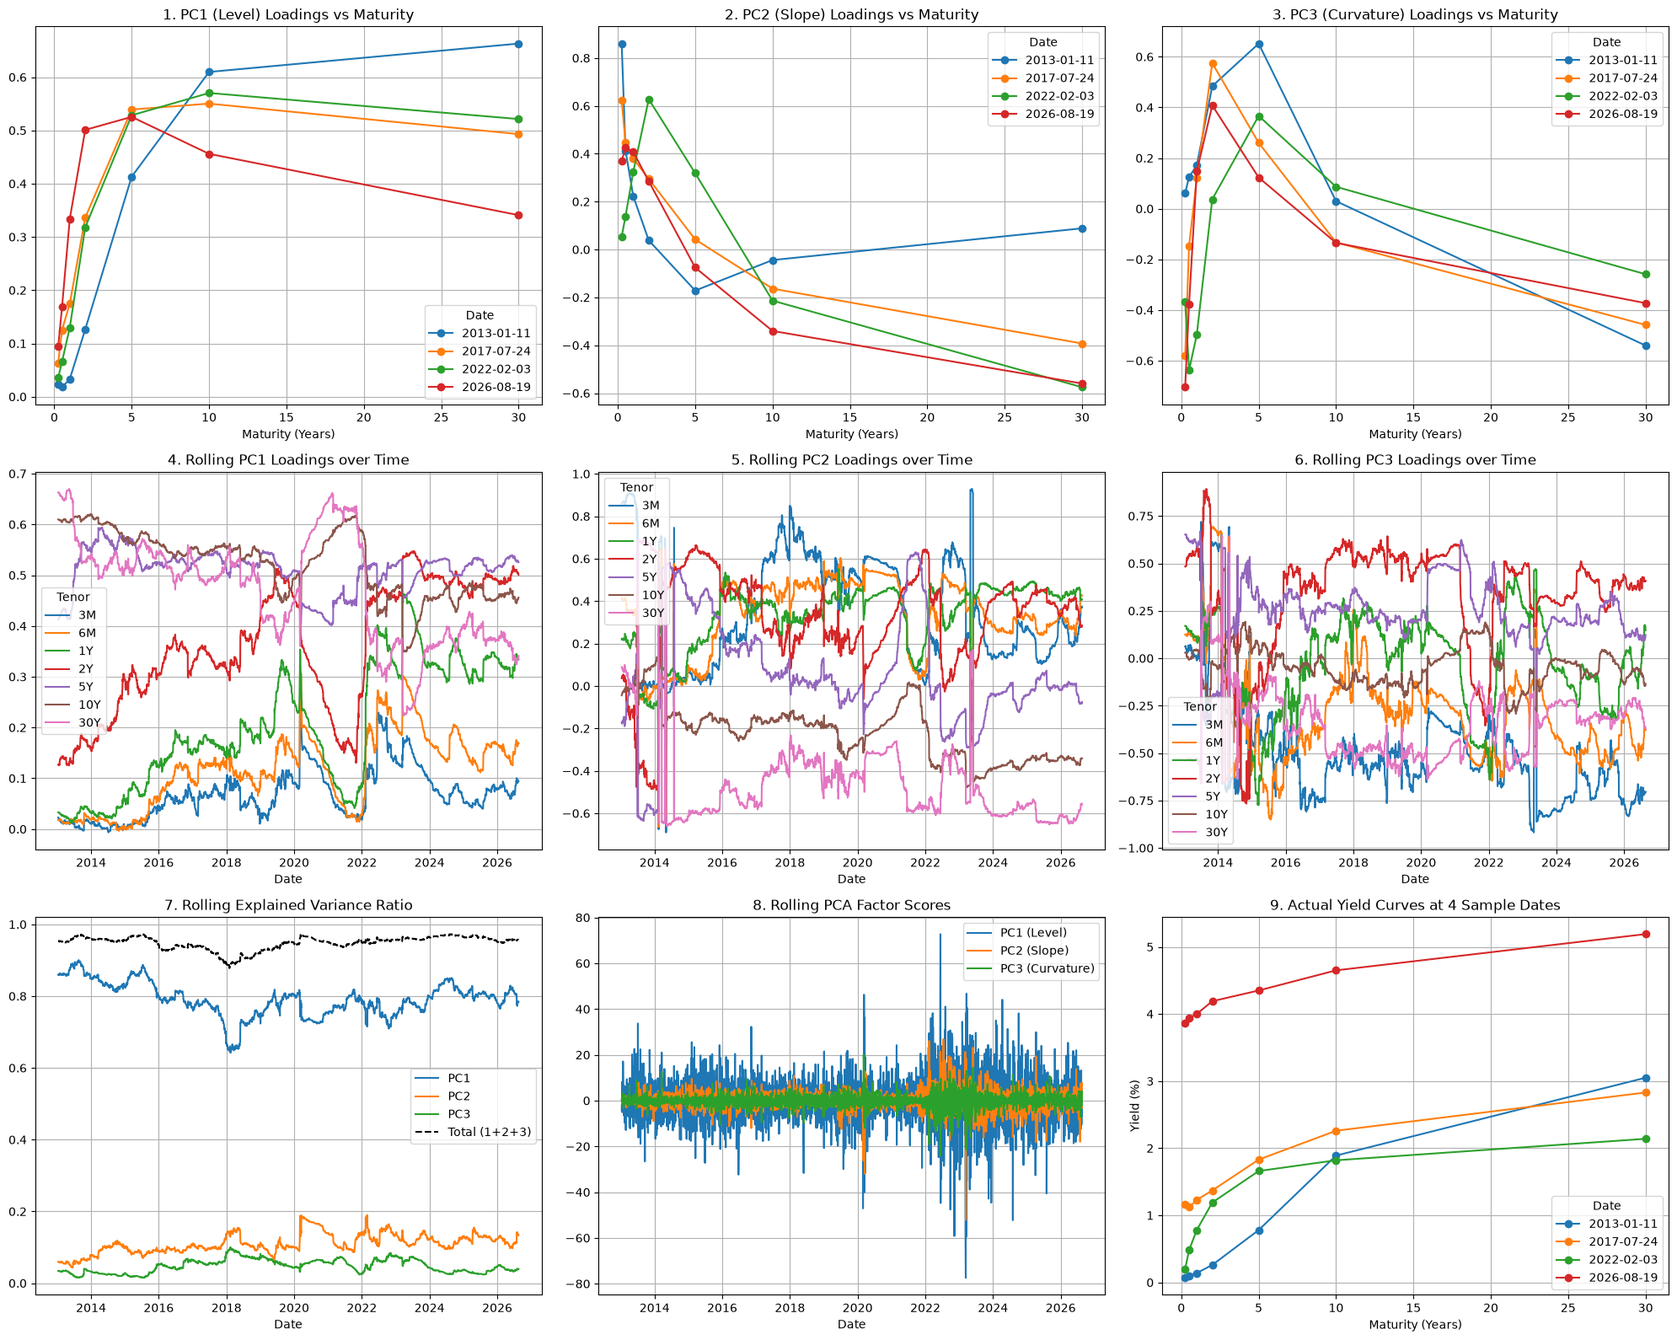
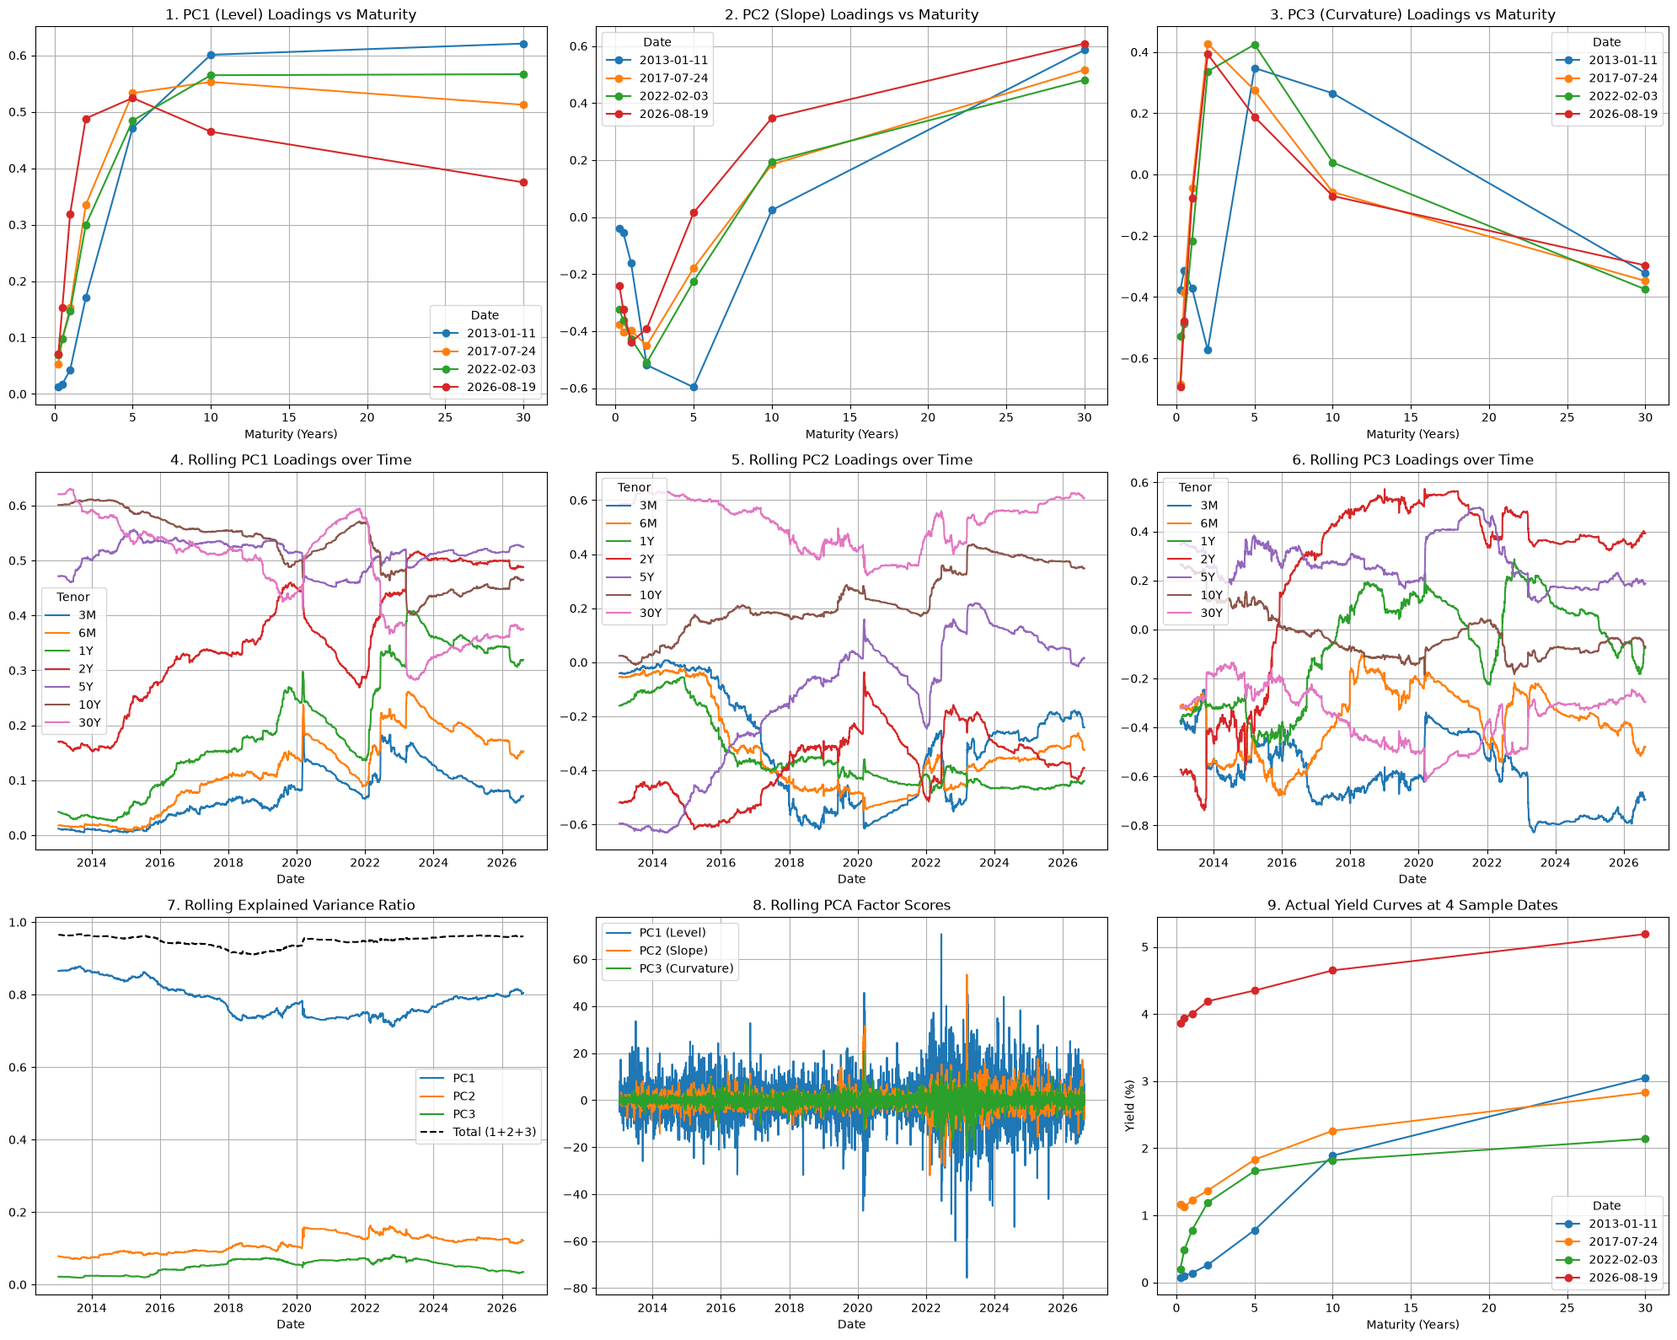
update

diff --git a/_posts/2026-08-26-Principal Component Analysis of the Treasury Yield Curve.md b/_posts/2026-08-26-Principal Component Analysis of the Treasury Yield Curve.md
@@ -15,10 +15,19 @@ The US Treasury curve is the benchmark of global interest rates. It serves as th
 
 Principal Component Analysis (PCA) is a dimensionality reduction technique that simplifies complex, multi-dimensional data into a few key independent drivers (level, slope, curvature, etc.).
 
+This article is organized into the following sections:
+
+* [**Examples of PCA Applications in Fixed Income**](#examples-of-pca-applications-in-fixed-income): Practical use cases in PnL attribution, multi-tenor hedging with liquid futures, and scenario stress testing.
+* [**Part 1: The Economic Meaning of PCA**](#1-the-economic-meaning-of-pca-litterman--scheinkman): Empirical interpretation of Level, Slope, and Curvature across macro regimes, rolling eigensolvers with the Hungarian algorithm, and hyperparameter tuning.
+* [**Part 2: CCAR and Regulatory Stress Testing**](#2-ccar-and-regulatory-stress-testing): Macroeconomic scenario design, Historical Simulation Value-at-Risk (VaR), Component VaR decomposition, and matrix algebra formulation.
+* [**Part 3: Independent Risk Factors**](#3-independent-risk-factors): Orthogonal risk isolation, directional vs. curve spread PnL dynamics, and residual monitoring for risk governance.
+
 **Refer to Interest Rate Modeling Notebooks and PCA Fundamentals:**
 * [Analysis on Treasury Yield Curve (PCA, VaR, PnL Attribution)](https://github.com/jhqntdv/Interest-Rate-Modeling/blob/main/pca-main.ipynb)
 * [The impact of Fed Funds Rate on the curve (Linear Regression and ECM)](https://github.com/jhqntdv/Interest-Rate-Modeling/blob/main/fed-main.ipynb)
 * [Statistics Cheat Sheet](/posts/Statistics-Cheat-Sheet/)
+
+---
 
 ## Examples of PCA applications in Fixed Income
 
@@ -36,63 +45,145 @@ PCA is a mathematical dimension-reduction technique with no inherent economic me
 
 ![PCA Components](/assets/img/posts/pca/ch2.png){: style="display: block; margin: 0 auto;" }
 
+**Baseline Model Setup (3Y Window / 3Y ESS):**  
+The empirical results presented below (Charts 1–9) are estimated using a **rolling lookback window of 756 trading days** ($252 \times 3 \approx 3\text{ years}$) paired with an **Effective Sample Size (ESS) of 756 days** ($252 \times 3 \approx 3\text{ years}$). Under exponential weighting ($\lambda = \frac{\text{ESS} - 1}{\text{ESS} + 1}$), this translates to an effective decay factor of **$\lambda \approx 0.99736$** (implying a half-life of $\approx 262$ trading days / $\approx 1$ year). The following results are presented based on this **3-year / 3-year** baseline configuration.
+
 #### 1.1 Factor Loadings vs. Maturity (Charts 1–3)
 
 * **Chart 1 — PC1 (Level) Loadings vs. Maturity:**
-  * 
+  * Cross-sectional snapshots across four macro regimes (2013 Taper Tantrum, 2017 mid-hiking cycle, 2022 hiking shock, and 2026 current).
+  * Loadings are strictly positive and monotonically upward-sloping from short to long tenors (~0.01–0.15 at 3M up to ~0.40–0.62 at 10Y–30Y), proving that level shocks structurally shift the entire curve in the same direction across varying regimes.
 
 * **Chart 2 — PC2 (Slope) Loadings vs. Maturity:**
-  * 
+  * Exhibits a consistent downward-to-upward steepener tilt: negative weights on short tenors (~-0.40 to -0.60 at 2Y–5Y) and positive weights on the long end (~+0.50 to +0.60 at 30Y).
+  * Consistently pivots through zero between intermediate maturities (~3Y–6Y), confirming that a 1-unit slope shift twists short and long rates in opposite directions.
 
 * **Chart 3 — PC3 (Curvature) Loadings vs. Maturity:**
-  * 
+  * Demonstrates the classic butterfly hump: positive loadings on the belly (~+0.35 to +0.42 at 2Y–5Y) flanked by negative loadings on both the short and long wings (~-0.30 to -0.70 at 3M; ~-0.30 to -0.38 at 30Y).
+  * Structural stability across all four regimes verifies that the model is well-specified and regime-independent.
 
 #### 1.2 Rolling Factor Loadings over Time (Charts 4–6)
 
-> **Methodology Note — Factor Tracking & the Hungarian Algorithm:**  
-> When computing PCA across rolling time windows, numerical eigensolvers suffer from two mathematical ambiguities:
-> 1. **Sign Flipping:** Eigenvectors are unique only up to a sign flip ($v$ and $-v$ satisfy the same eigensystem).
-> 2. **Factor Swapping (Eigenvalue Crossing):** During market regime shifts or when eigenvalues are close, the ranking of principal components can abruptly swap (e.g., PC2 and PC3 switching positions).
-> 
-> The **Hungarian Algorithm** (Kuhn-Munkres) solves this by treating factor tracking as a bipartite matching problem: it finds the optimal 1-to-1 assignment that maximizes the absolute inner product matrix between current eigenvectors ($t$) and reference eigenvectors ($t-1$). Combined with sign alignment ($\text{sgn}(v_t \cdot v_{t-1})$), it preserves smooth, continuous factor identities (Level, Slope, Curvature) across the entire rolling history without artificial jumps.
+**Methodology Note — Factor Tracking & the Hungarian Algorithm:**  
+When computing PCA across rolling time windows, numerical eigensolvers suffer from two mathematical ambiguities:
+1. **Sign Flipping:** Eigenvectors are unique only up to a sign flip ($v$ and $-v$ satisfy the same eigensystem).
+2. **Factor Swapping (Eigenvalue Crossing):** During market regime shifts or when eigenvalues are close, the ranking of principal components can abruptly swap (e.g., PC2 and PC3 switching positions).
+
+The **Hungarian Algorithm** (Kuhn-Munkres) solves this by treating factor tracking as a bipartite matching problem: it finds the optimal 1-to-1 assignment that maximizes the absolute inner product matrix between current eigenvectors (at time $t$) and reference eigenvectors (at time $t-1$). Combined with sign alignment ($\text{sgn}(v_t \cdot v_{t-1})$), it preserves smooth, continuous factor identities (Level, Slope, Curvature) across the entire rolling history without artificial jumps.
 
 * **Chart 4 — Rolling PC1 Loadings over Time:**
-  * 
+  * Tracks each tenor's sensitivity to Level over 2013–2026: long tenors (5Y–30Y) maintain high, stable exposures (~0.45–0.62), while front-end tenors (3M–1Y) remain low (<0.15 pre-2020) before rising to 0.30–0.45 during the 2022–2024 Fed tightening cycle.
+  * Time series are materially smooth with zero vertical discontinuities or line-crossing artifacts.
 
 * **Chart 5 — Rolling PC2 Loadings over Time:**
-  * 
+  * Persistently separates long-end steepeners (30Y at +0.35 to +0.65) from short-end anchors (3M–2Y at -0.20 to -0.60), with the 5Y–10Y sector acting as the stable transition zone.
+  * Shows robust factor identity preservation through the 2015–2018 hiking cycle, 2020 COVID shock, and 2022–2023 yield curve inversion.
 
 * **Chart 6 — Rolling PC3 Loadings over Time:**
-  * 
+  * Belly tenors (2Y, 5Y) consistently maintain positive loadings (+0.10 to +0.55), while short and long wings (3M, 30Y) remain negative (-0.10 to -0.80).
+  * Confirms that identity swaps and eigenvalue crossings are fully eliminated across the 13-year rolling sample.
 
 #### 1.3 Variance Explained, Factor Scores & Curve Shapes (Charts 7–9)
 
 * **Chart 7 — Rolling Explained Variance Ratio:**
-  * 
+  * Total explanatory power (PC1+PC2+PC3) stays consistently high at ~92%–97% (PC1: ~75%–85%, PC2: ~10%–15%, PC3: ~3%–6%).
+  * The transient dip in total variance to ~90% (with PC1 dropping to ~72%–75%) during 2020–2022 is an expected economic phenomenon: front-end rates were pinned near the zero lower bound (ZLB) while long-end yields moved independently, causing a decoupling that a linear 3-factor model cannot fully span.
 
 * **Chart 8 — Rolling PCA Factor Scores:**
-  * 
+  * Represents daily standardized factor realizations (typically fluctuating within $[-20, +20]$).
+  * Sharp spikes in March 2020 (emergency liquidity dislocation and rate cuts) and 2022–2023 (rapid 75 bps Fed rate hike cycle, with scores reaching $\pm 60$ to $-75$) are intentionally retained rather than smoothed away, preserving authentic market shocks critical for risk management and PnL attribution.
 
 * **Chart 9 — Actual Yield Curves at 4 Sample Dates:**
-  * 
+  * Provides the raw curve context underlying Charts 1–3: 2013 (steep curve; 3M at 0.06%, 30Y at 3.06%, spread $\approx 300$ bps), 2017 (moderately steep mid-cycle), 2022 (pre-hiking flat baseline), and 2026 (elevated, inverted curve with 3M at 3.86% and 10Y at 4.65%).
+  * Confirms factor shapes align directly with observed yield curve geometries across varying monetary regimes.
 
 #### 1.4 Hyperparameter Tuning: Rolling Windows & Decay Parameters (24 Scenarios)
 
 * **Scenario Framework & Parameter Grid:**
-  * Evaluating combinations of rolling lookback windows and exponential decay parameters ($\lambda$) across 24 test scenarios.
+  * Rolling PCA has two free hyperparameters: lookback window length ($W \in [252, 1260]$ days) and Effective Sample Size ($\text{ESS} \in [252, 756]$ days, or decay $\lambda \in [0.99209, 0.99736]$).
+  * Optimizing purely on in-sample explained variance is fundamentally biased: shorter windows mechanically inflate in-sample fit (from 94.59% at $W=1260$ to 95.15% at $W=252$) by memorizing sample-specific noise without improving true explanatory power.
+  * The 24 scenarios were evaluated along three distinct quantitative dimensions:
+    1. **Out-of-Sample (OOS) Explained Variance:** Measures how effectively yesterday's estimated loadings explain today's realized curve moves, testing whether shorter windows capture genuine predictive signal.
+    2. **Loading Instability (Turnover):** Quantifies day-to-day volatility in factor weights. Because loadings determine hedge ratios and risk attribution, unstable loadings generate false rebalancing signals and excessive transaction costs.
+    3. **Overfit Gap ($R^2_{\text{IS}} - R^2_{\text{OOS}}$):** Monitored as a diagnostic for structural overfitting rather than a direct objective.
+
+![Stability vs. OOS Explanatory Power (Pareto Frontier)](/assets/img/posts/pca/ch4.png){: style="display: block; margin: 0 auto;" }
+
+* **Stability vs. Out-of-Sample Explanatory Power (Pareto Frontier):**
+  * **Axes & Coordinates:** Each point represents one Window/ESS combination, plotting Instability Penalty ($x$-axis, lower is better) against OOS Explained Variance ($y$-axis, higher is better).
+  * **Dominated Configurations (Gray):** Discarded because alternative combinations achieve both equal-or-better OOS variance and equal-or-better stability; no rational objective function would select them regardless of weighting.
+  * **The Pareto Frontier (Red):** The remaining non-dominated frontier where improving one metric strictly costs the other. Choosing an operating point is explicitly an economic judgment call on how much stability is worth in predictive power, rather than an automated decision from a scalar z-score (especially given the narrow 0.866–0.870 OOS variance spread):
+    * $W=1260, \text{ESS}=756$: Maximum stability (penalty of 1.68), OOS variance of 86.60%.
+    * $W=756, \text{ESS}=756$ (Baseline): Near-identical stability (penalty of 1.81), OOS variance of 86.67%.
+    * $W=756, \text{ESS}=504$: Penalty rises to 2.33, OOS variance of 86.73%.
+    * $W=504, \text{ESS}=252$: Penalty jumps to 4.14, OOS variance of 86.76%.
+    * $W=252, \text{ESS}=252$: Peak OOS variance (87.02%), but instability surges over 3.5× to 5.93.
+
+![Hyperparameter Tuning Top Configurations & Metrics](/assets/img/posts/pca/ch5.png){: style="display: block; margin: 0 auto;" }
+
+* **Top Hyperparameter Configurations & Score Ranking:**
+  * Summarizes the 5 non-dominated Pareto configurations sorted from lowest instability to highest OOS variance.
+  * **Overfit Gap Invariance:** The overfit gap is virtually constant across all window/ESS configurations at ~0.080–0.082 (0.0799 at $W=1260$ vs. 0.0814 at $W=252$). This stability indicates that the ~8% gap represents irreducible, idiosyncratic daily rate noise rather than tunable overfitting.
+  * **Compressed OOS Spread:** Out-of-sample explanatory power spans a tight 42 bps range (86.60% to 87.02%), showing that aggressive lookback shortening delivers rapidly diminishing predictive gains.
 
 * **Performance & Stability Observations:**
-  * 
+  * **Flaw of the Scalar "Combined Score":** The z-score Combined Score (ranging from 0.186 to 2.462) artificially amplifies microscopic OOS variance gains (+0.42%) over massive increases in turnover (+253% in instability), unfairly penalizing long, stable windows.
+
+* **Why 756/756 Was Selected:**
+  * **Pareto Frontier Trade-Off:** 756/756 sits directly on the Pareto frontier, conceding only ~0.35 percentage points of OOS explained variance (86.67% vs. 87.02%) relative to the highest-scoring 252/252 setup in exchange for a ~3.3× improvement in stability (instability penalty of 1.81 vs. 5.93).
+  * **Noise vs. Operational Reality:** OOS variance differences across the entire grid are economically immaterial (well within market noise), whereas factor loading instability directly and consequentially destabilizes downstream hedge ratios and PnL attribution.
+  * **Equal Weighting Across 3 Years:** A 756-day lookback represents a 3-year window, and $\text{ESS} = 756$ implies an effective decay of $\lambda \approx 0.99736$—amounting to near-equal weighting across the full 3 years with essentially no meaningful decay.
 
 ### 2. CCAR and Regulatory Stress Testing
 Under the **CCAR (Comprehensive Capital Analysis and Review)**, banks must simulate stress scenarios that are extreme yet plausible to satisfy Federal Reserve rules. Randomly shocking individual interest rate tenors is not allowed. PCA serves as a standardized approach because it helps modelers shock just the independent components (Level, Slope, Curvature) to ensure that the generated stress scenarios are mathematically sound and defensible to regulators.
 
+#### 2.1 From Scenario Shocks to Factor Value-at-Risk (Factor VaR)
+For ongoing market risk management and desk limit monitoring, regulatory stress testing extends directly to **Factor Value-at-Risk (Factor VaR)**. Rather than monitoring an aggregate, opaque loss metric, Factor VaR isolates portfolio tail risk into the three independent economic drivers over an $N$-day horizon:
+* **$\text{VaR}_{\text{PC1}}$ (Level VaR):** Tail loss driven purely by parallel curve shifts (outright duration risk).
+* **$\text{VaR}_{\text{PC2}}$ (Slope VaR):** Tail loss driven by curve steepening or flattening pivots (curve spread risk).
+* **$\text{VaR}_{\text{PC3}}$ (Curvature VaR):** Tail loss driven by belly humping or wing movements (butterfly risk).
+
+#### 2.2 Matrix Formulation of Factor VaR
+The historical simulation of $N$-day Factor VaR is computed via three vectorized matrix operations:
+
+1. **Factor Sensitivity Vector ($\mathbf{dv01}_{\text{factor}}$):**  
+   Project the portfolio tenor DV01 vector $\mathbf{dv01} \in \mathbb{R}^M$ ($M = 7$ tenors) onto the latest rolling loading matrix $\mathbf{L} \in \mathbb{R}^{K \times M}$ ($K = 3$ components):
+   $$ \mathbf{dv01}_{\text{factor}} = \mathbf{L} \, \mathbf{dv01} = \begin{bmatrix} \text{DV01}_{\text{PC1}} \\ \text{DV01}_{\text{PC2}} \\ \text{DV01}_{\text{PC3}} \end{bmatrix} \in \mathbb{R}^K $$
+
+2. **Historical Component PnL Matrix ($\mathbf{\Pi}$):**  
+   Given the matrix of rolling $N$-day cumulative factor shocks $\mathbf{S} \in \mathbb{R}^{T \times K}$ ($\mathbf{S}_{t, :} = \sum_{i=0}^{N-1} \mathbf{f}_{t-i}$ across $T$ historical days), scale each factor column by its respective sensitivity:
+   $$ \mathbf{\Pi} = - \mathbf{S} \, \text{diag}(\mathbf{dv01}_{\text{factor}}) \in \mathbb{R}^{T \times K} $$
+   where $\Pi_{t, k} = - S_{t, k} \cdot \text{DV01}_{\text{factor}, k}$ is the simulated PnL from factor $k$ on historical day $t$.
+
+3. **95% Factor VaR Vector:**  
+   Extract the 5th percentile across each factor column independently:
+   $$ \mathbf{VaR}_{95\%} = \text{Percentile}_{5} \left( \mathbf{\Pi}, \text{axis}=0 \right) = \begin{bmatrix} \text{VaR}_{\text{PC1}} \\ \text{VaR}_{\text{PC2}} \\ \text{VaR}_{\text{PC3}} \end{bmatrix} \in \mathbb{R}^K $$
+
 ### 3. Independent Risk Factors
-A key mathematical property of PCA is that its components are independent of each other. This is helpful for risk management because it allows one to isolate and hedge the "Slope" risk of a portfolio without accidentally altering exposure to the "Level" risk. For example, traders break down the PnL into level, slope, and curvature risk factors to understand the sources of risk and can hedge "Slope" risk by trading instruments that are sensitive to "Slope" risk. 
 
-Additionally, if there is unexplained PnL (the residual difference between actual PnL and what the PCA model predicts), it is handled rigorously in practice:
+A key advantage of PCA in portfolio risk management is the **orthogonality** of its components. Because raw Treasury yields across tenors are highly collinear, individual tenor DV01 exposures obscure the underlying curve drivers. With orthogonal factors, daily portfolio PnL can be linearly decomposed into independent risk dimensions:
 
-1. If the unexplained PnL remains high, the modelers (Quant/Front Office) would need to revisit and revise the model such as including more principal components or using a different model.
-2. Middle office teams would initiate a formal investigation or valuation adjustment (risk reserves) if the unexplained PnL breaches predefined thresholds (Volcker Rule). 
+$$ \Delta \text{PnL}_{\text{Actual}} \approx \text{PnL}_{\text{Level}} + \text{PnL}_{\text{Slope}} + \text{PnL}_{\text{Curvature}} + \text{Residual} $$
 
-    ![PnL Attribution](/assets/img/posts/pca/ch3.png){: style="display: block; margin: 0 auto;" }
+where factor PnL is computed as $\text{PnL}_{k} = - \Delta f_k \cdot \text{DV01}_{\text{factor}, k}$, and the residual captures anything not accounted for by the first three components.
+
+![PnL Attribution](/assets/img/posts/pca/ch3.png){: style="display: block; margin: 0 auto;" }
+
+#### Portfolio Comparison & Numerical Walkthrough
+
+The tables above illustrate this decomposition across two benchmark portfolios over the same five-day sample:
+
+1. **Table 1: Outright Duration Position (Directional Risk)**
+   * **PC1 Dominance & Factor Trimming:** Daily performance is driven almost entirely by Level shifts. On 2026-05-04, PC1 accounts for -<span>$</span>6,527 of the -<span>$</span>7,200 loss. On 2026-05-06, PC1 slightly overshoots the actual gain (+<span>$</span>6,601 vs. +<span>$</span>6,200), with negative contributions from Curvature (-<span>$</span>345) and Slope (-<span>$</span>19) trimming total PCA PnL to +<span>$</span>6,237.
+   * **Tight Residuals:** Across all five days, unexplained residuals stay within -<span>$</span>37 to +<span>$</span>40 (< 1% of daily swings), confirming that three macro factors cleanly explain standard directional duration.
+
+2. **Table 2: 2s10s Steepener Position (Curve Spread Risk)**
+   *(Filtering out May 5 and May 7 where actual portfolio PnL was flat at <span>$</span>0 to focus strictly on active trading sessions where Actual PnL = -<span>$</span>1,000):*
+   * **Duration Immunization:** Across all active sessions (2026-05-01 at +<span>$</span>11, 2026-05-04 at -<span>$</span>283, and 2026-05-06 at +<span>$</span>263), PC1 PnL remains tightly constrained in the low hundreds of dollars—a stark contrast to the multi-thousand-dollar swings in Table 1—verifying effective protection against parallel yield shifts.
+   * **Slope Dominance vs. Curvature Twists:** On May 1, performance cleanly follows the intended curve steepening (PC2 = -<span>$</span>1,108, residual = +<span>$</span>153). On May 4 and May 6, however, Curvature swings (PC3 = +<span>$</span>921 and +<span>$</span>604) actively counter Slope, pulling PCA PnL away from actual performance.
+   * **Residual Range on Active Days:** Unexplained residuals on active trading days range from -<span>$</span>1,652 to +<span>$</span>153. Once directional duration is stripped away, higher-order curve twists, local tenor basis, and convexity make up a significant portion of net performance.
+
+#### Practical Takeaway on Residuals
+PCA is an effective linear diagnostic tool, but not an all-encompassing pricing model. In spread trading, where level risk is neutralized, higher-order effects—such as belly twists, roll-down differentials, and local tenor basis—naturally emerge. Tracking residuals helps risk managers separate genuine curve-spread performance from unmodeled structural basis and position mismatch.
+
+
